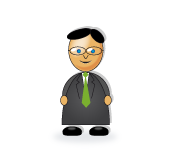
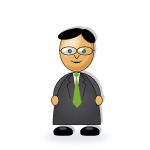
Illustrations added to the top of the pages.

diff --git a/public/stylesheets/echologic.css b/public/stylesheets/echologic.css
@@ -417,7 +417,8 @@ strong {
 
 .currentIllustration {
   float:         right;
-  top:           30px;
+  height:        66px;
+  margin:        -4px 10px 0;
 }
 
 /* feedback */

diff --git a/app/helpers/static_content_helper.rb b/app/helpers/static_content_helper.rb
@@ -64,7 +64,7 @@ module StaticContentHelper
   def insert_breadcrumb(main_link, sub_link, sub_menu_title='.title')
     if main_link != sub_link
       pic_resource = 'page/illustrations/' + sub_link.split('/')[2..3].join('_') + '.png'
-      image_tag(pic_resource, {:class => 'currentIllustration'})
+      concat image_tag(pic_resource, {:class => 'currentIllustration'})
     else
       sub_menu_title = '.subtitle'
     end
